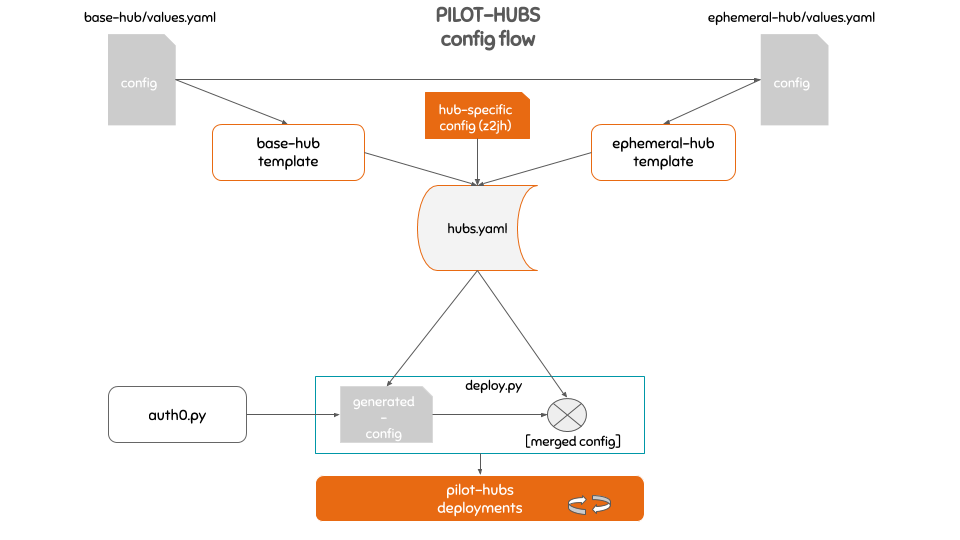
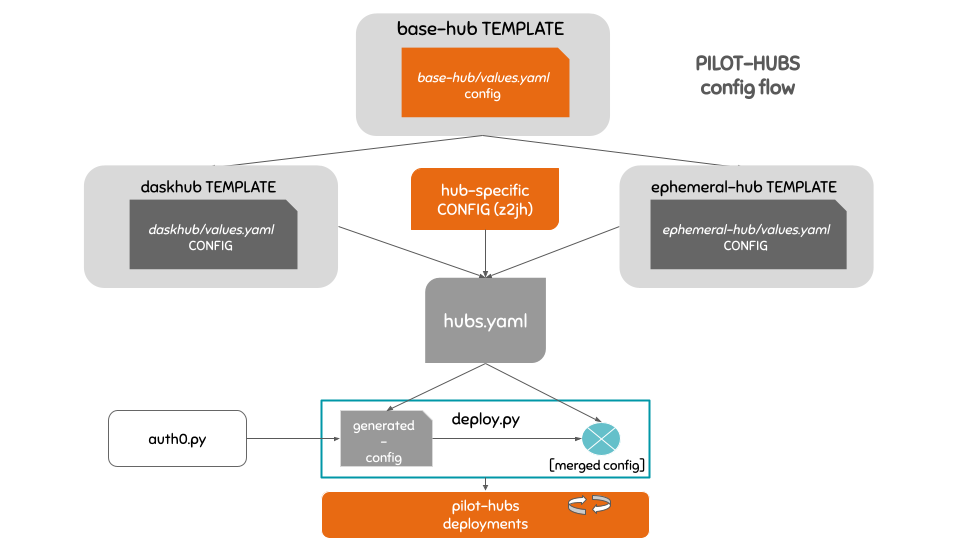
Restructure hub template doc, update diagram and add more info

diff --git a/docs/configure.md b/docs/configure.md
@@ -49,25 +49,35 @@ The hubs are configured and deployed using *hub templates*. Because each hub
 type can be described by a template, with its own deployment chart, a hierarchy
 of hub types can be built and this makes development and usage easier.
 
-Currently there are two hub templates available:
-- the `base-hub` template
-- the `ephemeral-hub` template
+Currently there are three hub templates available:
+- `base-hub`
 
-For example, the **ephemeral hub** is a special kind of hub that is built using the *ephemeral-hub template*
-and has the following features:
+  The **base-hub template** is the template that the other templates "inherit" and configure.
+  It provides a base JupyterHub, user storage and culling configuration that satisfies most of the
+  pilot hubs usage requirements.
 
-- Temporary, transient binder-style hub
-- No authentication
-- Resource limitations:
-  * memory / CPU limits
-  * maximum number of concurrent user servers
-- More aggressive culling
-- No persistent storage
-- No home page template
+- `ephemeral-hub`
 
+  The **ephemeral-hub template** helps deploying temporary, transient binder-style hubs.
+    - Doesn't require any user authentication.
+    - Permits limiting of resources:
+      * memory / CPU limits
+      * maximum number of concurrent user servers
+    - Has a more aggressive culling:
+      - Stops server after 30min of idleness
+      - Desn't let servers run for more than 8h
+    - Has no persistent storage
+    - Doesn't use or configures a home page template
+
+- `daskhub`
+
+  The **daskhub template** helps deploying dask-enabled hubs.
+    - Installs [dask-gateway](https://gateway.dask.org/)
+    - Defaults to using a [PANGEO image](https://pangeo-data.github.io/pangeo-stacks/)
+    - Enables outgoing SSH
 
 The graphic below, shows the relationship between the hub templates and the other
-config files and how they are merged together when deploying a JupyterHub.
+config files and how they are merged together when deploying a pilot hub.
 
 ```{figure} images/config-flow.png
 ```
